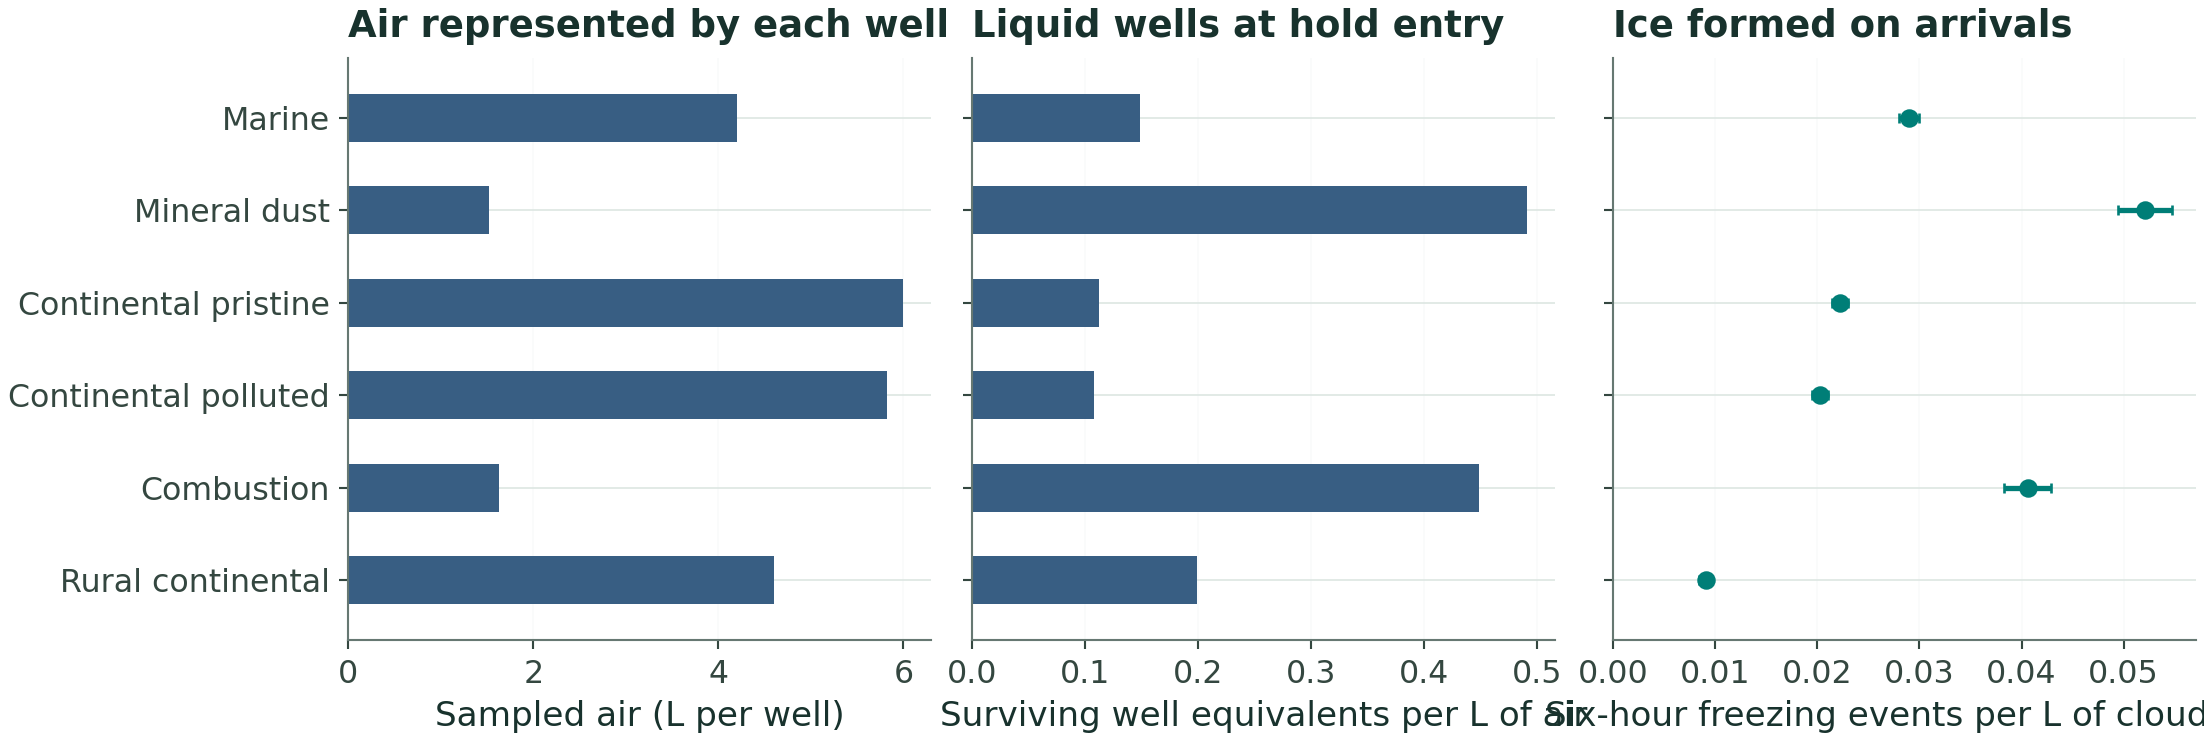
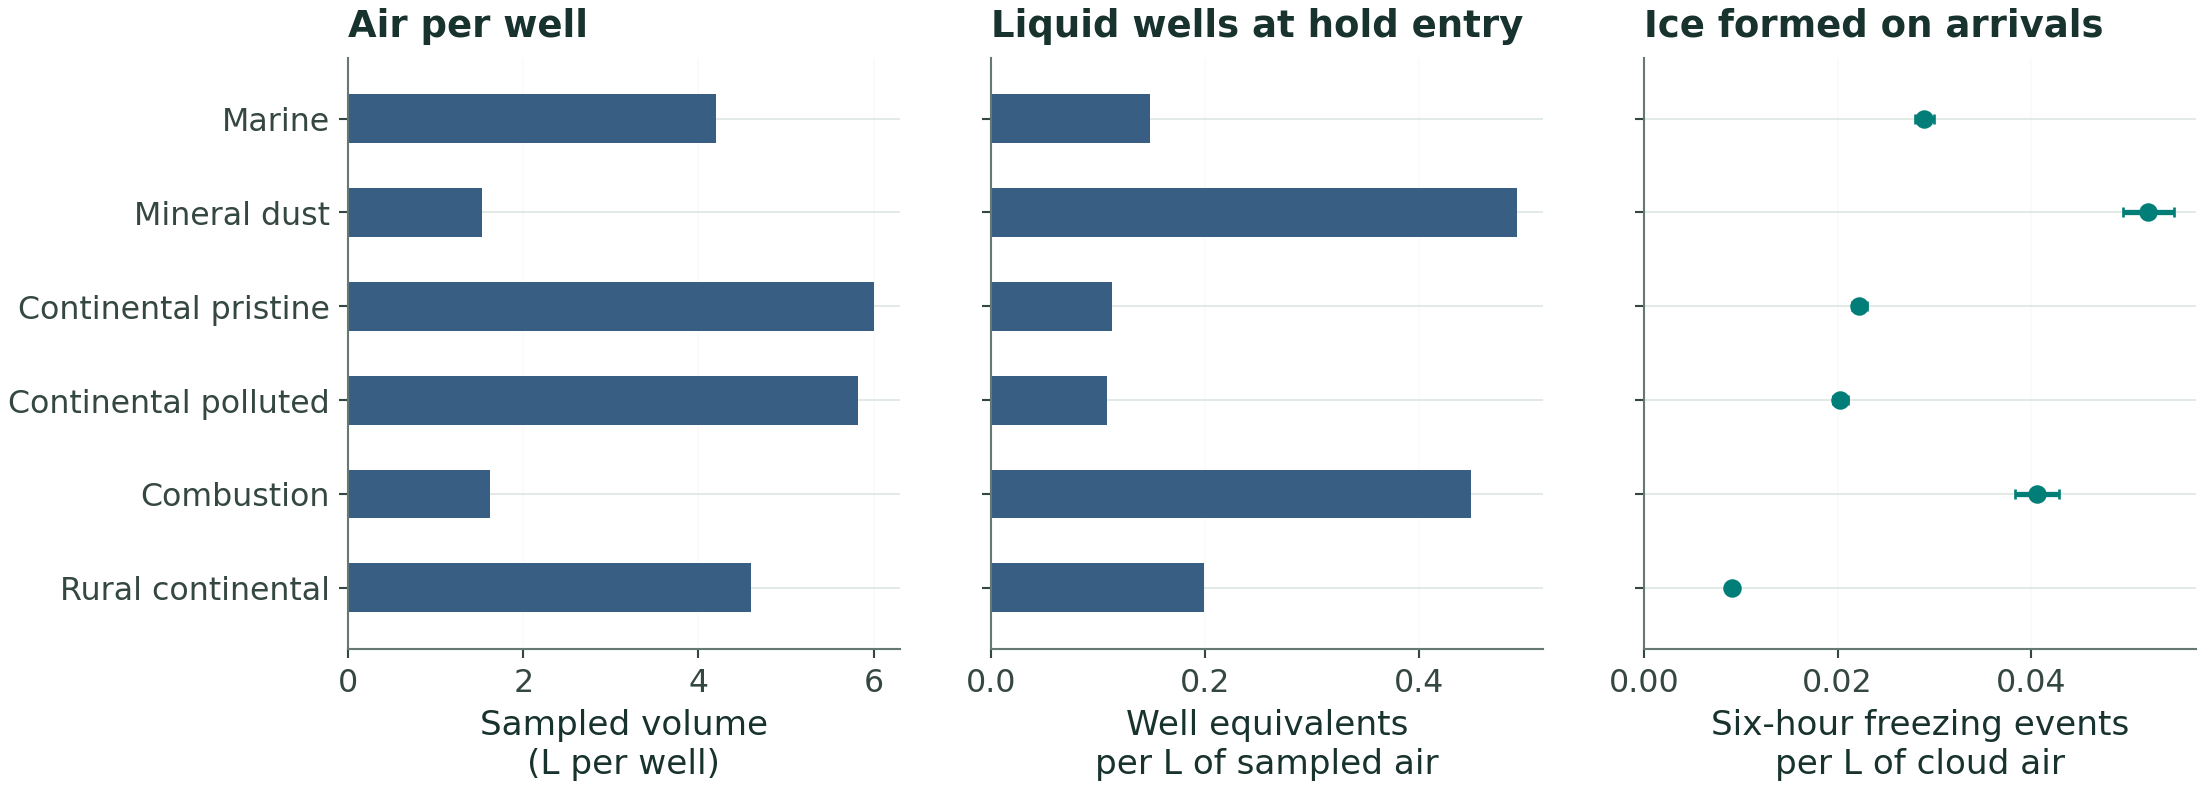
docs(studies): separate labels in the Lund sample-volume figure

diff --git a/studies/lund-freezing/cloud-sources/plots.py b/studies/lund-freezing/cloud-sources/plots.py
@@ -135,20 +135,21 @@ def mineral_figure(out,d):
 
 
 def supply_figure(out,summary):
-    fig,axs=plt.subplots(1,3,figsize=(11.6,3.9),layout='constrained',sharey=True)
+    fig,axs=plt.subplots(1,3,figsize=(11.6,4.15),layout='constrained',sharey=True)
+    fig.get_layout_engine().set(wspace=.09)
     volume=pd.read_csv(out/'air-volume.csv').set_index('source').loc[SAMPLES]
     y=np.arange(len(SAMPLES))
     axs[0].barh(y,volume.litres_per_well,color=BLUE,height=.52)
-    axs[0].set(title='Air represented by each well',xlabel='Sampled air (L per well)')
+    axs[0].set(title='Air per well', xlabel='Sampled volume\n(L per well)')
     axs[1].barh(y,volume.entry_per_litre,color=BLUE,height=.52)
-    axs[1].set(title='Liquid wells at hold entry',xlabel='Surviving well equivalents per L of air')
+    axs[1].set(title='Liquid wells at hold entry', xlabel='Well equivalents\nper L of sampled air')
     arrivals=summary[(summary.sky=='reference') & (summary.metric=='fresh_primary') &
                     (summary.grid==10) & (summary.comparison=='closed') &
                     (summary.abundance=='air_volume')].set_index('source').loc[SAMPLES]
     np.testing.assert_allclose(arrivals.control, 0.)
     axs[2].errorbar(arrivals.value,y,xerr=[arrivals.value-arrivals.lo,arrivals.hi-arrivals.value],
                     fmt='o',color=TEAL,capsize=2)
-    axs[2].set(title='Ice formed on arrivals',xlabel='Six-hour freezing events per L of cloud air',xlim=(0,None))
+    axs[2].set(title='Ice formed on arrivals', xlabel='Six-hour freezing events\nper L of cloud air',xlim=(0,None))
     axs[0].set_yticks(y,[LABELS[s] for s in SAMPLES]);axs[0].set_ylim(5.65,-.65)
     for a in axs:a.grid(axis='x',alpha=.15)
     fig.savefig(out/'sample-volume.png',dpi=190);plt.close(fig)
